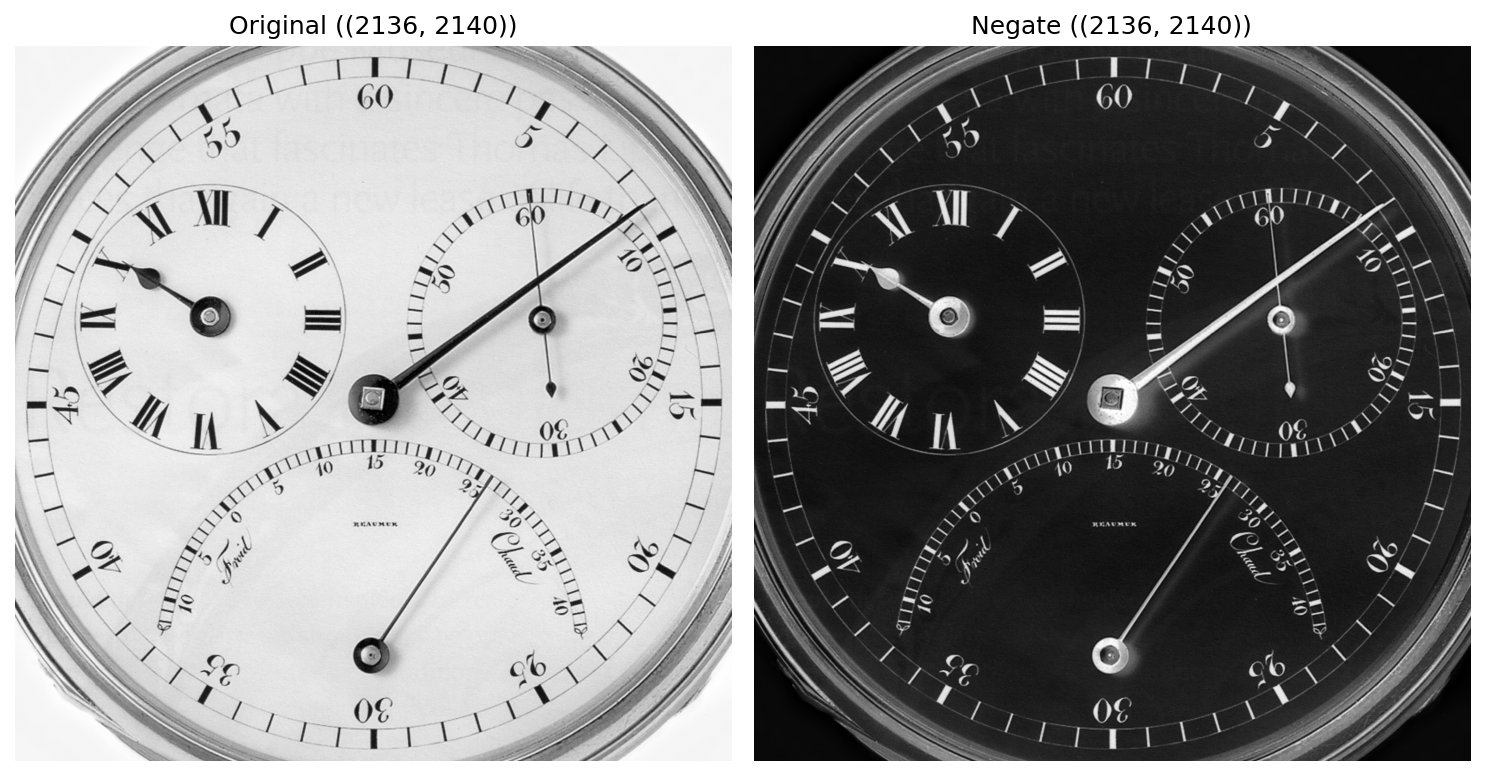
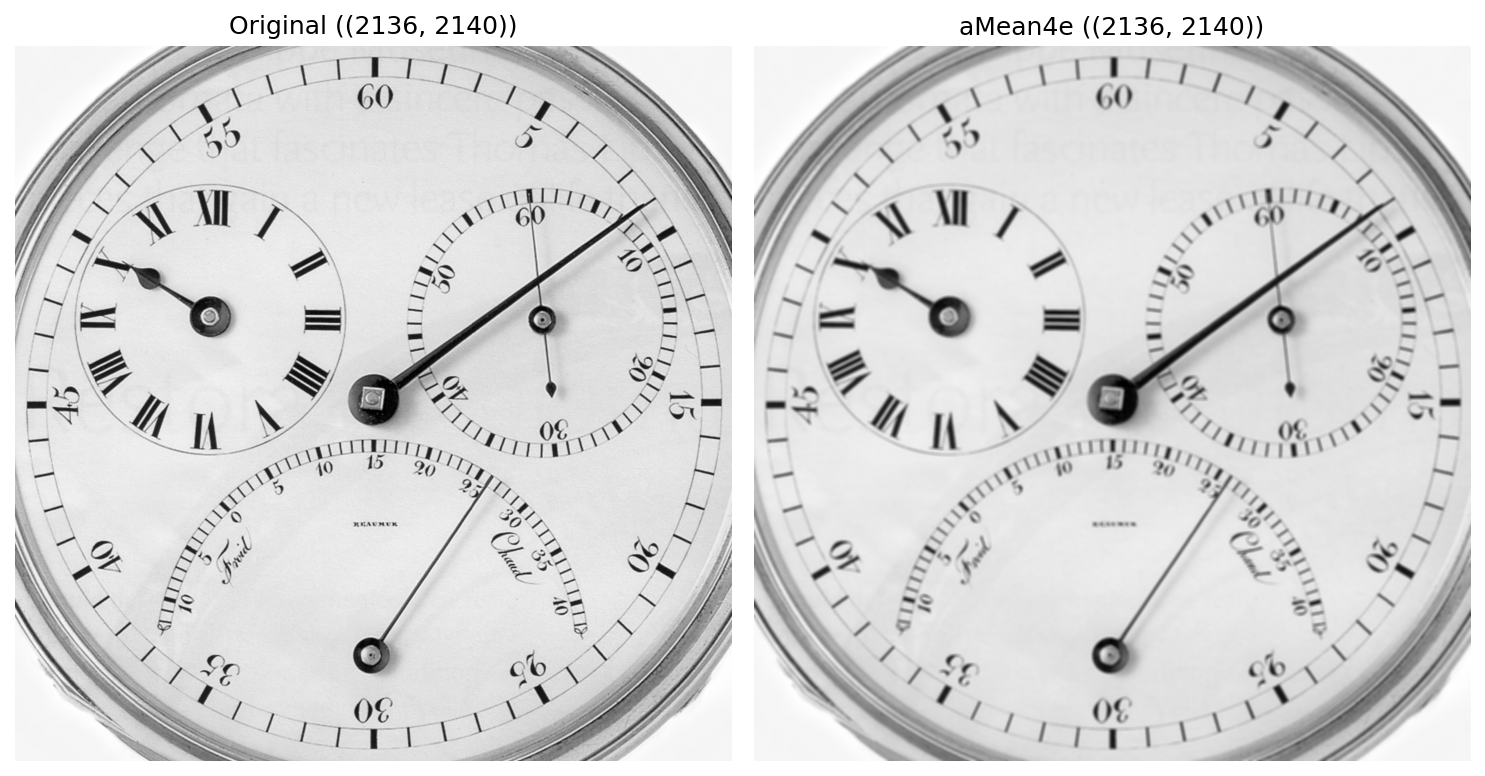
improved lib-dip libraries access from figures methods

diff --git a/libDIP/chapters/chapter02.py b/libDIP/chapters/chapter02.py
@@ -4,7 +4,6 @@ from pathlib import Path as _Path
 import os as _os
 
 
-
 class Chapter02Mixin:
     def figureXXX(self, data_dir: str | None = None) -> dict[str, object]:
         """Run Chapter02 script `FigureXXX.py` with inlined code."""
@@ -18,7 +17,10 @@ class Chapter02Mixin:
             img_name = dip_data("Chronometer.tif")
             f = imread(img_name)
             original_shape = f.shape[:2]
-            g = 255 - f
+            from helpers.aMean4e import aMean4e
+
+            g = aMean4e(f, 11, 11)
+            # g = 255 - f
             _, axes = plt.subplots(1, 2, figsize=(10, 10))
             axes = axes.flatten()
 
@@ -27,11 +29,10 @@ class Chapter02Mixin:
             axes[0].axis("off")
 
             axes[1].imshow(g, cmap="gray")
-            axes[1].set_title(f"Negate ({original_shape})")
+            axes[1].set_title(f"aMean4e ({original_shape})")
             axes[1].axis("off")
 
             plt.tight_layout()
-            plt.show()
         finally:
             self._restore_script_context(_ctx, data_dir=data_dir)
         return self._collect_new_figures(pre_fig_nums)

diff --git a/lib/__init__.py b/lib/__init__.py
@@ -1,0 +1,12 @@
+from pathlib import Path
+
+
+_PACKAGE_DIR = Path(__file__).resolve().parent
+_ROOT_DIR = _PACKAGE_DIR.parent
+
+# Preserve legacy `lib.<module>` imports used by the converted helper code.
+__path__ = [str(_PACKAGE_DIR)]
+for _subdir in ("lib-general", "lib-dip", "lib-dipum"):
+    _candidate = _ROOT_DIR / "helpers" / _subdir
+    if _candidate.is_dir():
+        __path__.append(str(_candidate))
